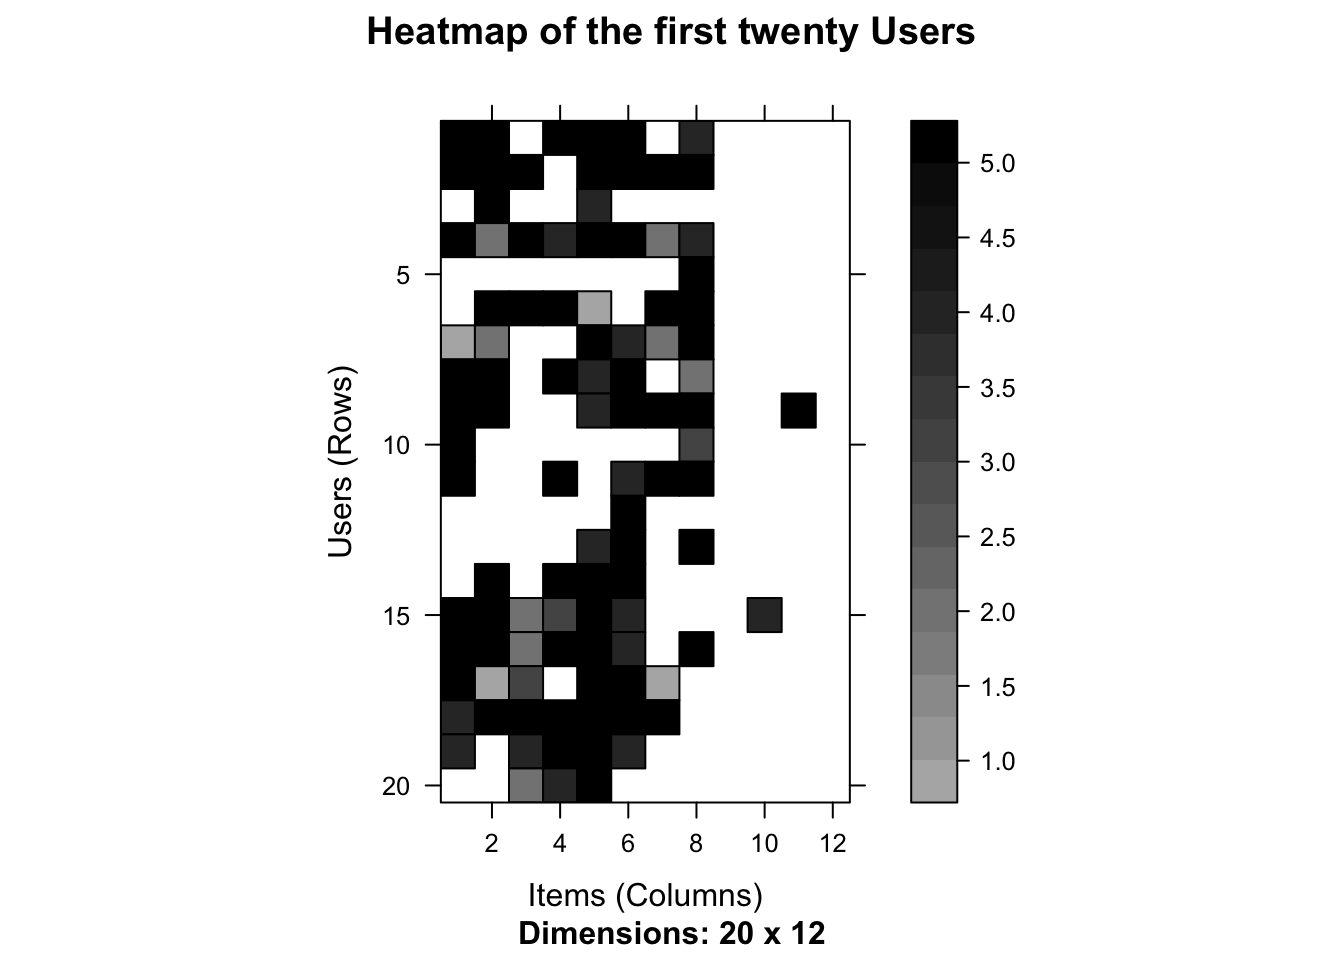
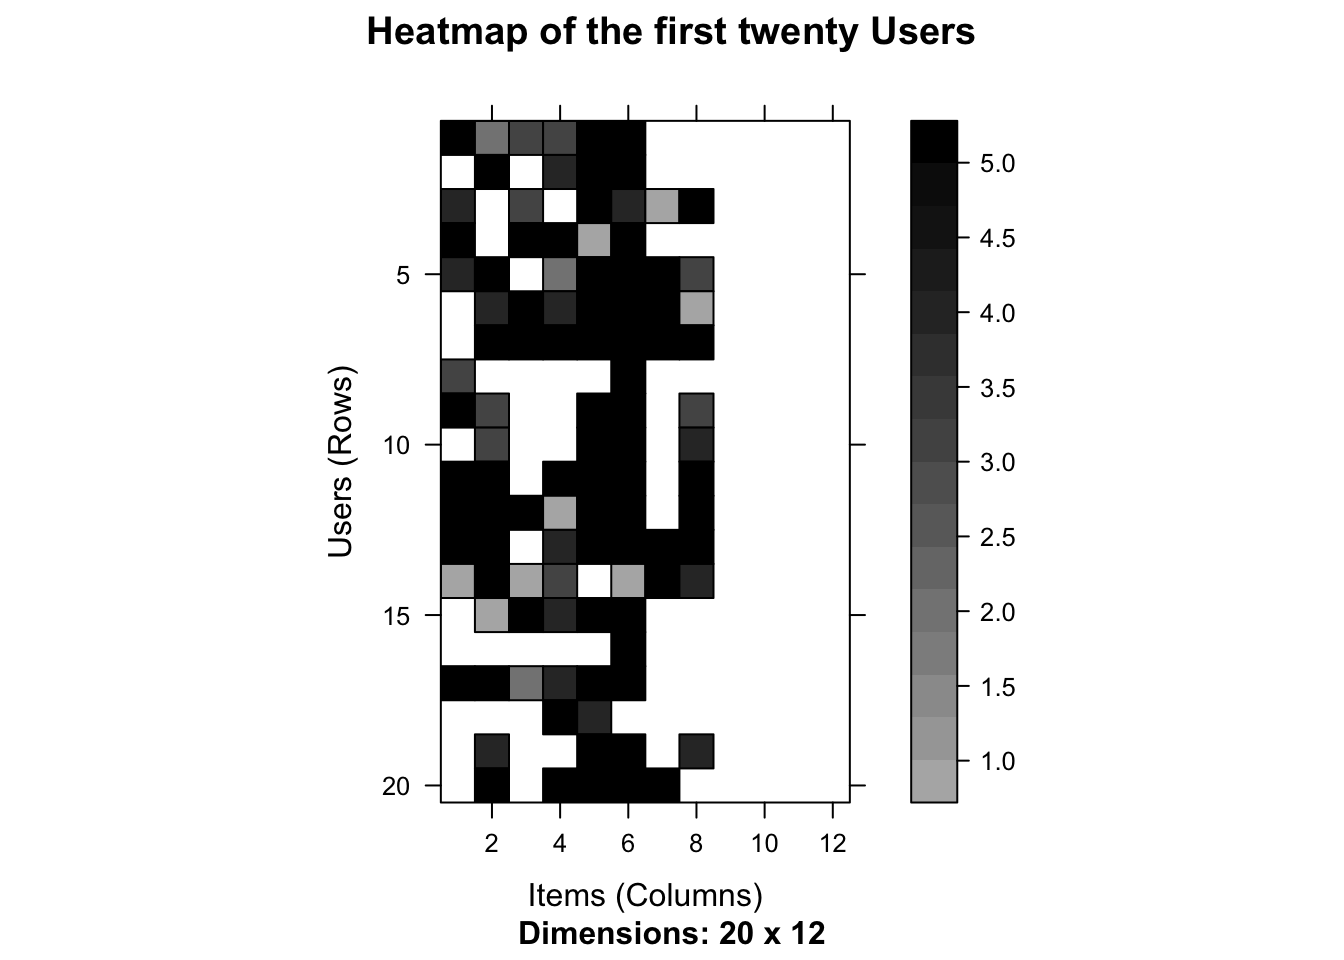
fixed header

Changed region(s): [[0.3125, 0.125, 0.5312, 0.8438], [0.5625, 0.4062, 0.625, 0.4688], [0.5312, 0.625, 0.5938, 0.6562]]

diff --git a/index.html b/index.html
@@ -11,7 +11,7 @@
 
 
 
-<title>Furqan’s Website</title>
+<title>Recommendation Engine</title>
 
 <script src="site_libs/jquery-1.11.3/jquery.min.js"></script>
 <meta name="viewport" content="width=device-width, initial-scale=1" />
@@ -199,14 +199,11 @@ $(document).ready(function () {
 
 
 
-<h1 class="title toc-ignore">Furqan’s Website</h1>
+<h1 class="title toc-ignore">Recommendation Engine</h1>
 
 </div>
 
 
-<div id="recommendation-engine" class="section level1">
-<h1>Recommendation Engine</h1>
-</div>
 <div id="introduction" class="section level1">
 <h1>Introduction</h1>
 <p>Selecting a product that fits your needs is a tiring process. The process is more demanding with the evergrowing range of products. Makeup is a category that does not only have a big range of products, but also requires a consumer to select the right product according to skin type. It is not uncommon for relatives or friends to buy makeup as a gift for their loved ones; buying such gifts is a difficult process because of wide range of products and the added complexity of selecting a product that matches skin-type of the loved ones. In such a situation, a recommender system that recommends products as per skin type can take burden off the purchaser.</p>
@@ -963,7 +960,7 @@ skin_type_oily
 <tbody>
 <tr>
 <td style="text-align:right;">
-88
+17
 </td>
 <td style="text-align:left;">
 P38217
@@ -989,7 +986,7 @@ P38217
 </tr>
 <tr>
 <td style="text-align:right;">
-98
+3
 </td>
 <td style="text-align:left;">
 P38217
@@ -1015,7 +1012,7 @@ P38217
 </tr>
 <tr>
 <td style="text-align:right;">
-42
+40
 </td>
 <td style="text-align:left;">
 P38217
@@ -1041,7 +1038,7 @@ P38217
 </tr>
 <tr>
 <td style="text-align:right;">
-36
+16
 </td>
 <td style="text-align:left;">
 P38217
@@ -1067,7 +1064,7 @@ P38217
 </tr>
 <tr>
 <td style="text-align:right;">
-24
+62
 </td>
 <td style="text-align:left;">
 P38217
@@ -1093,7 +1090,7 @@ P38217
 </tr>
 <tr>
 <td style="text-align:right;">
-22
+36
 </td>
 <td style="text-align:left;">
 P38217
@@ -1125,12 +1122,12 @@ P38217
 <h1>New Real Rating Matrix</h1>
 <p>The matrix shows users in rows and products in columns. A numeric value corresponding to a particular user and product implies how the product was rated by a particular user. For example, <strong>user 1</strong> gave a rating of <strong>4</strong> to <strong>product P38217</strong>.</p>
 <pre><code>## 5 x 5 sparse Matrix of class &quot;dgCMatrix&quot;
-##     P38217 P382204 P382292 P382353 P382354
-## 1        5       5       .       5       5
-## 10       5       5       5       .       5
-## 100      .       5       .       .       4
-## 11       5       2       5       4       5
-## 12       .       .       .       .       .</code></pre>
+##    P38217 P382204 P382292 P382353 P382354
+## 1       5       2       3       3       5
+## 10      .       5       .       4       5
+## 11      4       .       3       .       5
+## 12      5       .       5       5       1
+## 13      4       5       .       2       5</code></pre>
 </div>
 <div id="number-of-ratings-per-user-with-fake-data" class="section level1">
 <h1>Number of Ratings per User with Fake Data</h1>
@@ -1216,23 +1213,23 @@ applyMyAlgorithm &lt;- function(data) {
 <pre class="r"><code>trainMyAlgorithm(train, sephora_reviews_edited, skin=&quot;skin_type_oily&quot;)
 
 head(applyMyAlgorithm(known))</code></pre>
-<pre><code>## $`18`
-## [1] &quot;P382354&quot; &quot;P382354&quot;
-## 
-## $`19`
+<pre><code>## $`10`
 ## [1] &quot;P38217&quot; &quot;P38217&quot;
 ## 
-## $`2`
-## [1] &quot;P38217&quot; &quot;P38217&quot;
-## 
-## $`25`
+## $`11`
 ## [1] &quot;P382354&quot; &quot;P382354&quot;
 ## 
-## $`27`
-## [1] &quot;P382355&quot; &quot;P382355&quot;
+## $`15`
+## [1] &quot;P38217&quot; &quot;P38217&quot;
 ## 
-## $`28`
-## [1] &quot;P382355&quot; &quot;P382355&quot;</code></pre>
+## $`16`
+## [1] &quot;P382354&quot; &quot;P382354&quot;
+## 
+## $`17`
+## [1] &quot;P382354&quot; &quot;P382354&quot;
+## 
+## $`21`
+## [1] &quot;P38217&quot; &quot;P38217&quot;</code></pre>
 </div>
 <div id="second-recommendation-system" class="section level1">
 <h1>Second Recommendation System</h1>
@@ -1257,23 +1254,23 @@ applyMyAlgorithm &lt;- function(data) {
 <pre class="r"><code>trainMyAlgorithm(train, sephora_reviews_edited, skin=&quot;skin_type_combination&quot;)
 
 head(applyMyAlgorithm(known))</code></pre>
-<pre><code>## $`18`
-## [1] &quot;P384342&quot;
-## 
-## $`19`
+<pre><code>## $`10`
 ## character(0)
 ## 
-## $`2`
-## character(0)
-## 
-## $`25`
-## [1] &quot;P384342&quot;
-## 
-## $`27`
+## $`11`
 ## [1] &quot;P38217&quot; &quot;P38217&quot;
 ## 
-## $`28`
-## [1] &quot;P38217&quot; &quot;P38217&quot;</code></pre>
+## $`15`
+## character(0)
+## 
+## $`16`
+## [1] &quot;P38217&quot; &quot;P38217&quot;
+## 
+## $`17`
+## [1] &quot;P38217&quot; &quot;P38217&quot;
+## 
+## $`21`
+## character(0)</code></pre>
 </div>
 <div id="feedback-loop" class="section level1">
 <h1>Feedback Loop</h1>
